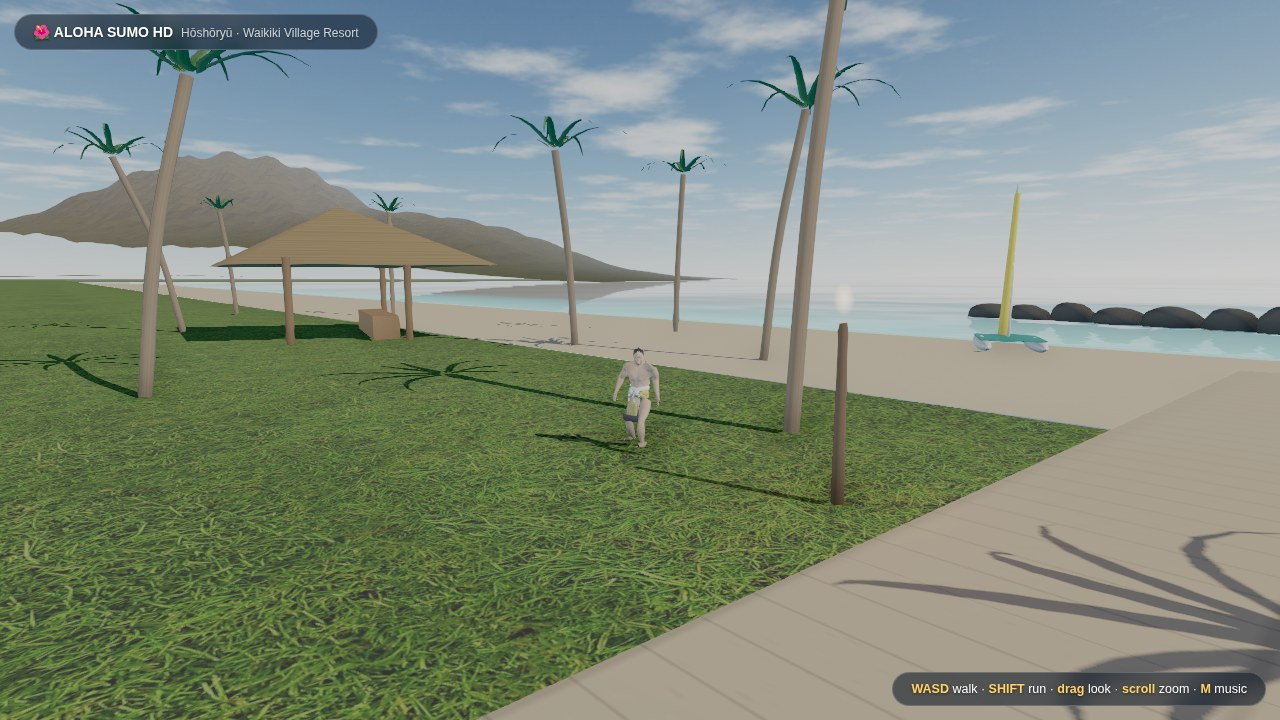
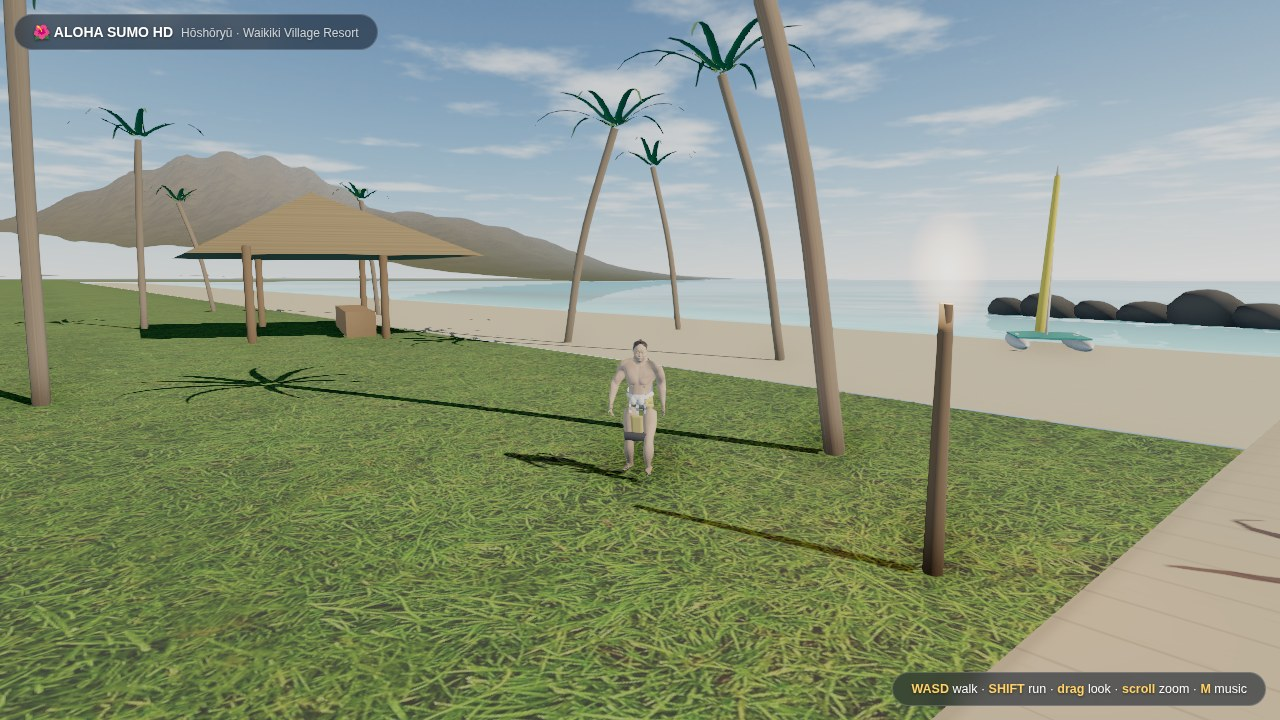
Fix character overexposure from cubemap environment lighting
The photographic skybox contains the sun itself, so PMREM environment
lighting was blowing the character out to near-white. Cut envMapIntensity
on all materials, raised direct sun and exposure for contrast.

Claude-Session: https://claude.ai/code/session_013bmtFi8wgBC195uR3SXmAP

diff --git a/aloha-hd/src/hd-main.js b/aloha-hd/src/hd-main.js
@@ -18,7 +18,7 @@ const renderer = new THREE.WebGLRenderer({ canvas, antialias: true, powerPrefere
 renderer.setPixelRatio(Math.min(devicePixelRatio || 1, 2));
 renderer.setSize(innerWidth, innerHeight);
 renderer.toneMapping = THREE.ACESFilmicToneMapping;
-renderer.toneMappingExposure = 0.55;
+renderer.toneMappingExposure = 0.68;
 renderer.shadowMap.enabled = true;
 renderer.shadowMap.type = THREE.PCFSoftShadowMap;
 
@@ -55,7 +55,7 @@ const groundY = (x, z) => beachY(z);
 
 // sun matched to the HDRI sunrise over the water
 const sunDir = new THREE.Vector3(-0.78, 0.6, 0.2).normalize();
-const sun = new THREE.DirectionalLight(0xfff2dd, 2.2);
+const sun = new THREE.DirectionalLight(0xfff0d6, 2.6);
 sun.castShadow = true;
 sun.shadow.mapSize.set(4096, 4096);
 sun.shadow.camera.near = 5; sun.shadow.camera.far = 300;
@@ -71,6 +71,14 @@ scene.add(sun, sun.target);
     scene.background = t;
     const pmrem = new THREE.PMREMGenerator(renderer);
     scene.environment = pmrem.fromCubemap(t).texture;
+    // the cubemap contains the sun itself, so cut indirect intensity way down
+    scene.traverse(o => {
+      if (o.isMesh || o.isSkinnedMesh) {
+        const ms = Array.isArray(o.material) ? o.material : [o.material];
+        ms.forEach(mm => { if (mm && 'envMapIntensity' in mm) mm.envMapIntensity = 0.45; });
+      }
+    });
+    window.__envReady = true;
   });
 }
 
@@ -654,7 +662,11 @@ const loader = new GLTFLoader();
 loader.load(SUMO_GLB, g => {
   sumo = g.scene;
   sumo.traverse(o => {
-    if (o.isMesh || o.isSkinnedMesh) { o.castShadow = true; o.receiveShadow = false; o.frustumCulled = false; }
+    if (o.isMesh || o.isSkinnedMesh) {
+      o.castShadow = true; o.receiveShadow = false; o.frustumCulled = false;
+      const ms = Array.isArray(o.material) ? o.material : [o.material];
+      ms.forEach(mm => { if (mm && 'envMapIntensity' in mm) mm.envMapIntensity = 0.5; });
+    }
   });
   sumo.position.set(0, 0, 8);
   scene.add(sumo);